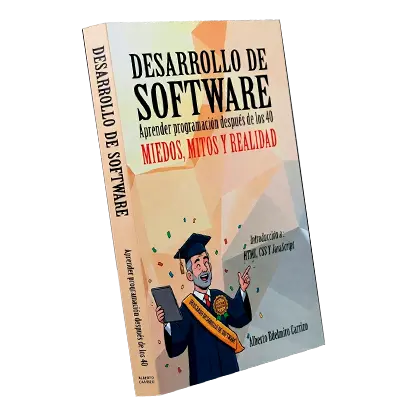
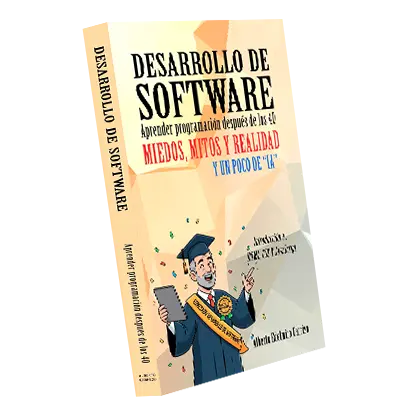
New ebook

diff --git a/components/MyBook.jsx b/components/MyBook.jsx
@@ -22,7 +22,7 @@ export default function MyBook() {
             "MIEDOS, MITOS Y REALIDAD"
           </p>
           <p className="sm:text-sm lg:text-md text-xs">
-            Disponible en Amazon en versión tapa blanda y Kindle. Link sobre el libro.
+            Disponible en Amazon en versión tapa blanda. Link sobre el libro.
           </p>
         </div>
         <div className="mx-auto">
@@ -39,18 +39,21 @@ export default function MyBook() {
       </div>
       <p className="sm:text-sm lg:text-md leading-6 text-xs mt-8 text-left">
         Hay una frase que se repite como un eco en la cabeza de muchas personas
-        que se acercan al mundo de la programación después de los 40: <br />
-        “Ya llegué tarde.” <br />
-        No hace falta que nadie la diga en voz alta. Está en los comentarios de
-        redes, en los videos donde aparece gente muy joven hablando de
-        tecnologías nuevas, en los memes de “junior de 20 años con 10 años de
-        experiencia”. Y, sobre todo, está dentro de la propia cabeza del lector.
+        que se acercan al mundo de la programación después de los 40: “Ya llegué
+        tarde.” A esa duda histórica hoy se le suma un nuevo fantasma: "Si la
+        Inteligencia Artificial y los agentes escriben código solos, ¿qué
+        espacio queda para mí?" Está en las redes, en la velocidad con la que
+        surgen nuevas herramientas y en el ruido constante del mercado. Y, sobre
+        todo, está dentro de la propia cabeza del lector.
         <br />
         La idea no es pintar un mundo color de rosa ni vender la ilusión de que
-        la edad no importa para nada. Importa!. Cambia el contexto, la energía
-        disponible, el tiempo libre, la urgencia económica. <br />
-        Pero eso no significa que la puerta esté cerrada. Significa que el plan
-        tiene que ser distinto.
+        la edad o el paradigma actual no importan. ¡Importan! Cambia el tiempo
+        disponible, la urgencia económica y la forma en que aprendemos. Pero la
+        llegada de la IA no cerró la puerta; cambió la cerradura. Hoy el valor
+        no está en memorizar sintaxis a toda velocidad, sino en saber qué
+        construir, cómo estructurarlo y qué problemas resolver. La experiencia
+        de vida ya no es una desventaja: es el criterio que guía a la
+        tecnología. El plan simplemente tiene que ser distinto.
       </p>
     </section>
   );
